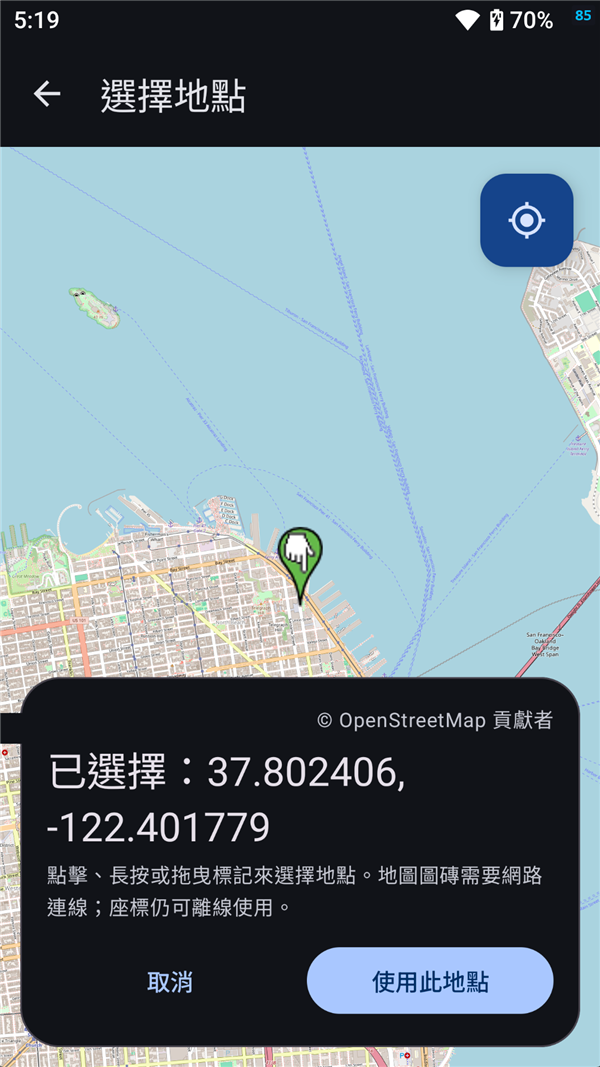
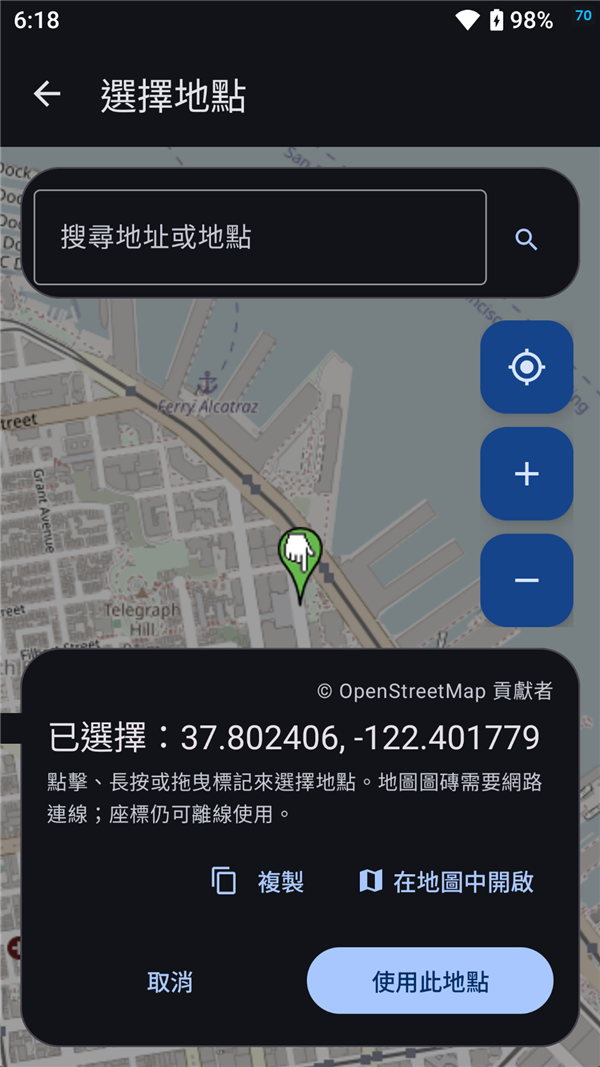
Polish the map picker controls and search experience
- Add accessible zoom in/out FABs and disable osmdroid's built-in controls,
  which were hidden behind the bottom panel; scale tiles to DPI.
- Apply a dimmed, desaturated tile filter in dark mode.
- Add a dedicated search button, a busy state, an offline check, the
  clear-text end icon, and haptic feedback on long press.
- Add Copy coordinates and Open in Maps (`geo:` URI) actions to the panel.
- Translate the new map/search strings across all locales.
- Refresh the English and Traditional Chinese map/search guide screenshots
  and the release tutorial.

diff --git a/app/src/main/java/com/github/fakegps/ui/MapPickerActivity.java b/app/src/main/java/com/github/fakegps/ui/MapPickerActivity.java
@@ -2,6 +2,9 @@ package com.github.fakegps.ui;
 
 import android.app.Activity;
 import android.content.Intent;
+import android.content.res.Configuration;
+import android.graphics.ColorMatrix;
+import android.graphics.ColorMatrixColorFilter;
 import android.net.ConnectivityManager;
 import android.net.Network;
 import android.net.NetworkCapabilities;
@@ -11,6 +14,7 @@ import android.os.Build;
 import android.os.Bundle;
 import android.os.SystemClock;
 import android.text.TextUtils;
+import android.view.HapticFeedbackConstants;
 import android.view.View;
 import android.view.inputmethod.EditorInfo;
 import android.view.inputmethod.InputMethodManager;
@@ -20,8 +24,10 @@ import android.widget.Toast;
 import androidx.appcompat.app.AppCompatActivity;
 
 import com.github.fakegps.AddressSearch;
+import com.github.fakegps.FakeGpsUtils;
 import com.github.fakegps.model.LocPoint;
 import com.google.android.material.appbar.MaterialToolbar;
+import com.google.android.material.button.MaterialButton;
 import com.google.android.material.dialog.MaterialAlertDialogBuilder;
 import com.google.android.material.textfield.TextInputEditText;
 import com.google.android.material.textfield.TextInputLayout;
@@ -33,6 +39,7 @@ import org.osmdroid.views.MapView;
 import org.osmdroid.views.overlay.MapEventsOverlay;
 import org.osmdroid.events.MapEventsReceiver;
 import org.osmdroid.views.overlay.Marker;
+import org.osmdroid.views.overlay.TilesOverlay;
 
 import java.util.List;
 import java.util.Locale;
@@ -63,6 +70,7 @@ public class MapPickerActivity extends AppCompatActivity {
 
     private TextInputLayout mSearchLayout;
     private TextInputEditText mSearchInput;
+    private MaterialButton mSearchButton;
     private final ExecutorService mSearchExecutor = Executors.newSingleThreadExecutor();
     private int mSearchRequestId = 0;
 
@@ -106,7 +114,8 @@ public class MapPickerActivity extends AppCompatActivity {
 
         mSearchLayout = findViewById(R.id.searchLayout);
         mSearchInput = findViewById(R.id.inputSearch);
-        mSearchLayout.setEndIconOnClickListener(view -> performSearch());
+        mSearchButton = findViewById(R.id.btn_search);
+        mSearchButton.setOnClickListener(view -> performSearch());
         mSearchInput.setOnEditorActionListener((view, actionId, event) -> {
             if (actionId == EditorInfo.IME_ACTION_SEARCH) {
                 performSearch();
@@ -114,6 +123,14 @@ public class MapPickerActivity extends AppCompatActivity {
             }
             return false;
         });
+        findViewById(R.id.btn_zoom_in).setOnClickListener(
+                view -> mMapView.getController().zoomIn());
+        findViewById(R.id.btn_zoom_out).setOnClickListener(
+                view -> mMapView.getController().zoomOut());
+        findViewById(R.id.btn_copy_coords).setOnClickListener(
+                view -> copySelectedCoordinates());
+        findViewById(R.id.btn_open_external).setOnClickListener(
+                view -> openInExternalMap());
 
         TextView attribution = (TextView) findViewById(R.id.tv_osm_attribution);
         attribution.setOnClickListener(new View.OnClickListener() {
@@ -131,7 +148,10 @@ public class MapPickerActivity extends AppCompatActivity {
         mMapView = (MapView) findViewById(R.id.map);
         mMapView.setTileSource(TileSourceFactory.MAPNIK);
         mMapView.setMultiTouchControls(true);
+        mMapView.setBuiltInZoomControls(false);
+        mMapView.setTilesScaledToDpi(true);
         mMapView.getController().setZoom(DEFAULT_ZOOM);
+        applyNightMapFilter();
 
         GeoPoint start = new GeoPoint(mLatitude, mLongitude);
         mMapView.getController().setCenter(start);
@@ -145,6 +165,7 @@ public class MapPickerActivity extends AppCompatActivity {
 
             @Override
             public boolean longPressHelper(GeoPoint point) {
+                mMapView.performHapticFeedback(HapticFeedbackConstants.LONG_PRESS);
                 selectPoint(point);
                 return true;
             }
@@ -260,8 +281,12 @@ public class MapPickerActivity extends AppCompatActivity {
             mSearchLayout.setError(getString(R.string.search_empty));
             return;
         }
+        if (!isNetworkAvailable()) {
+            Toast.makeText(this, R.string.search_failed, Toast.LENGTH_LONG).show();
+            return;
+        }
         mSearchLayout.setError(null);
-        mSearchLayout.setHelperText(getString(R.string.searching));
+        setSearchBusy(true);
         final int requestId = ++mSearchRequestId;
         mSearchExecutor.execute(() -> {
             List<AddressSearch.Result> results = AddressSearch.search(this, query);
@@ -269,10 +294,59 @@ public class MapPickerActivity extends AppCompatActivity {
                 if (requestId != mSearchRequestId || isFinishing()) {
                     return;
                 }
-                mSearchLayout.setHelperText(null);
+                setSearchBusy(false);
                 showSearchResults(results);
             });
         });
+    }
+
+    private void setSearchBusy(boolean busy) {
+        if (mSearchButton != null) {
+            mSearchButton.setEnabled(!busy);
+        }
+        if (mSearchInput != null) {
+            mSearchInput.setEnabled(!busy);
+        }
+        if (mSearchLayout != null) {
+            mSearchLayout.setHelperText(busy
+                    ? getString(R.string.searching) : null);
+        }
+    }
+
+    private void applyNightMapFilter() {
+        TilesOverlay tiles = mMapView.getOverlayManager().getTilesOverlay();
+        if (tiles == null) {
+            return;
+        }
+        int nightMode = getResources().getConfiguration().uiMode
+                & Configuration.UI_MODE_NIGHT_MASK;
+        if (nightMode == Configuration.UI_MODE_NIGHT_YES) {
+            ColorMatrix matrix = new ColorMatrix();
+            matrix.setSaturation(0.35f);
+            ColorMatrix scale = new ColorMatrix();
+            scale.setScale(0.62f, 0.62f, 0.62f, 1.0f);
+            matrix.postConcat(scale);
+            tiles.setColorFilter(new ColorMatrixColorFilter(matrix));
+        } else {
+            tiles.setColorFilter(null);
+        }
+    }
+
+    private void copySelectedCoordinates() {
+        LocPoint point = new LocPoint(mLatitude, mLongitude);
+        FakeGpsUtils.copyToClipboard(this, point.toString());
+        Toast.makeText(this, getString(R.string.location_copied) + "\n" + point,
+                Toast.LENGTH_LONG).show();
+    }
+
+    private void openInExternalMap() {
+        String uri = String.format(Locale.US, "geo:%.6f,%.6f?q=%.6f,%.6f",
+                mLatitude, mLongitude, mLatitude, mLongitude);
+        try {
+            startActivity(new Intent(Intent.ACTION_VIEW, Uri.parse(uri)));
+        } catch (Exception e) {
+            Toast.makeText(this, R.string.search_failed, Toast.LENGTH_SHORT).show();
+        }
     }
 
     private void showSearchResults(List<AddressSearch.Result> results) {
@@ -328,6 +402,7 @@ public class MapPickerActivity extends AppCompatActivity {
     protected void onResume() {
         super.onResume();
         mMapView.onResume();
+        applyNightMapFilter();
         updateNetworkHint();
     }
 

diff --git a/README.md b/README.md
@@ -50,6 +50,10 @@ map. **No root is required** — it uses the standard Android mock-location API.
 |---|---|---|
 | <img src="screenshot/guide-main.png" width="260" alt="Main screen"> | <img src="screenshot/guide-map.png" width="260" alt="Map picker"> | <img src="screenshot/guide-fly.png" width="260" alt="Flight mode"> |
 
+| Settings | Address search |
+|---|---|
+| <img src="screenshot/guide-settings.png" width="260" alt="Settings"> | <img src="screenshot/guide-search.png" width="260" alt="Address search"> |
+
 ## Step-by-step guide
 
 ### Step 0 — Before you start
@@ -192,13 +196,18 @@ somewhere convenient.
 3. Tap a result to move the marker and camera to that place.
 4. Pan/zoom the map, then **tap**, **long-press**, or **drag the marker**.
 5. The bottom panel shows the selected coordinates.
-6. Tap **Use this location** to fill the field, or **Cancel** to go back.
+6. Tap **Use location** to fill the field, or **Cancel** to go back.
 
 <img src="screenshot/guide-search.png" width="320" alt="Address search results">
 
 <img src="screenshot/guide-map.png" width="320" alt="Map picker">
 
 - Search results come from Android's geocoder or OpenStreetMap Nominatim.
+- Use the **+ / −** buttons to zoom and the crosshair button to recenter on the
+  marker. **Copy** copies the selected coordinates; **Open in Maps** opens the
+  point with another map app (`geo:` URI). The **X** in the search field clears
+  it.
+- The map uses a dimmed, desaturated tile filter in dark mode.
 - Map tiles come from **OpenStreetMap** and need a network connection.
 - The coordinates still work offline; if tiles cannot load, you can type a
   coordinate or use the map position.
@@ -219,7 +228,8 @@ somewhere convenient.
 ### Step 9 — Bookmarks
 
 - **Save:** long-press the star button on the joystick, enter a name, and tap
-  **Save**.
+  **Save**. You can also tap **Save current location** in the Bookmarks card on
+  the main screen.
 - **Use:** open the main screen and tap a bookmark in the list.
 - **Delete:** long-press a bookmark in the list and confirm.
 - Bookmarks are stored locally in the app's database. Auto backup is disabled.
@@ -331,8 +341,10 @@ table.
 
 **Is my data uploaded?**
 No account, no analytics, no telemetry. Map tiles are requested from the
-OpenStreetMap tile server, which needs a network connection. Bookmarks and last
-coordinates stay on the device; automatic backup is disabled.
+OpenStreetMap tile server, which needs a network connection. Address searches
+are sent to Android's geocoder or OpenStreetMap Nominatim when you use the map
+search bar; no account is involved. Bookmarks and last coordinates stay on the
+device; automatic backup is disabled.
 
 **Can I use it on a work/school phone?**
 Do not bypass MDM or employer restrictions. Developer options may be disabled
